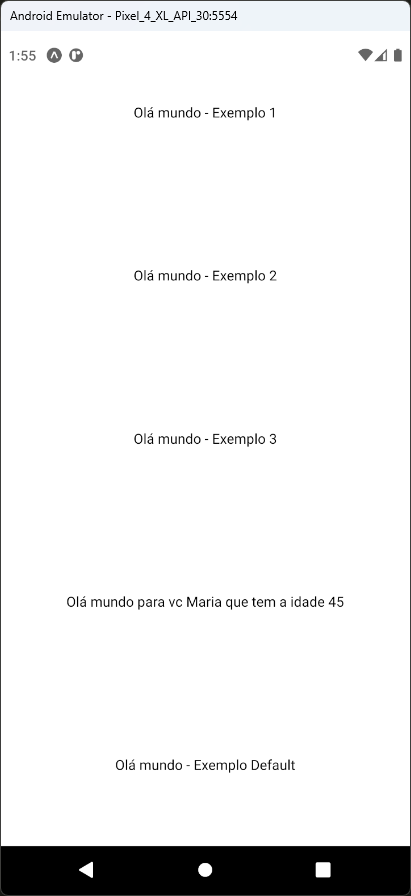
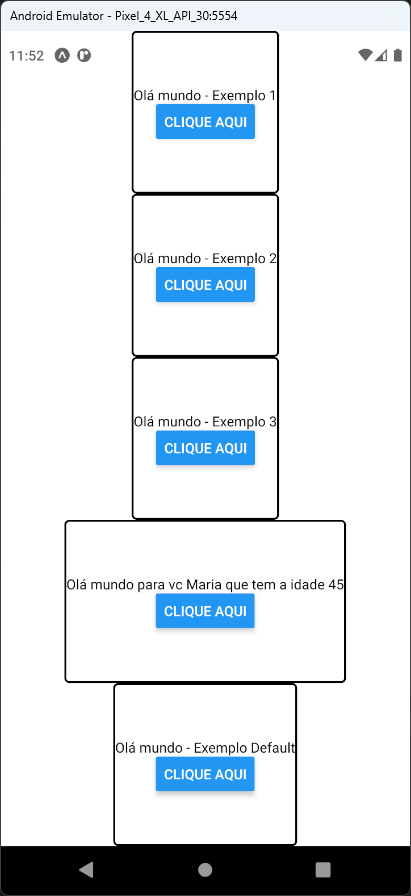
fix: ajuste no projeto

diff --git a/aula_05_functions_arrow_functions/Componentes.js b/aula_05_functions_arrow_functions/Componentes.js
@@ -1,28 +1,32 @@
 import React from 'react';
-import { View, Text, } from 'react-native';
+import {View, Text, Button, StyleSheet} from 'react-native';
 
-function Exemplo1() {
+function Exemplo1(texto) {
+    texto = "Parametro da Função Exemplo1"
     return (
-        <View style={{flex: 1,justifyContent: "center",alignItems: "center"}}>
+        <View style={Estilos.container}>
             <Text>Olá mundo - Exemplo 1</Text>
+            <Button title={"Clique aqui"} onPress={() => alert(`Clicou: ${texto}`)}/>
         </View>
     )
 }
 
 const Exemplo2 = () => {
     return (
-        <View style={{flex: 1,justifyContent: "center",alignItems: "center"}}>
+        <View style={Estilos.container}>
             <Text>Olá mundo - Exemplo 2</Text>
+            <Button title={"Clique aqui"} onPress={() => alert("Clicou")}/>
         </View>
     )
 }
 
-const Exemplo3 = () => <View style={{flex: 1,justifyContent: "center",alignItems: "center"}}><Text>Olá mundo - Exemplo 3</Text></View>
+const Exemplo3 = () => <View style={Estilos.container}><Text>Olá mundo - Exemplo 3</Text><Button title={"Clique aqui"} onPress={() => alert("Clicou")}/></View>
 
 const Exemplo4 = ({nome = "João", idade = 35}) => {
     return (
-        <View style={{flex: 1,justifyContent: "center",alignItems: "center"}}>
+        <View style={Estilos.container}>
             <Text>Olá mundo para vc {nome} que tem a idade {idade}</Text>
+            <Button title={"Clique aqui"} onPress={() => alert("Clicou")}/>
         </View>
     )
 }
@@ -31,8 +35,20 @@ export { Exemplo1, Exemplo2, Exemplo3, Exemplo4 }
 
 export default () => {
     return (
-        <View style={{flex: 1,justifyContent: "center",alignItems: "center"}}>
+        <View style={Estilos.container}>
             <Text>Olá mundo - Exemplo Default</Text>
+            <Button title={"Clique aqui"} onPress={() => alert("Clicou")}/>
         </View>
     )
 }
+
+const Estilos = StyleSheet.create({
+    container: {
+        flex: 1,
+        justifyContent: "center",
+        alignItems: "center",
+        borderRadius: 5,
+        borderWidth: 2,
+        borderColor: "black",
+    },
+});

diff --git a/aula_05_functions_arrow_functions/README.MD b/aula_05_functions_arrow_functions/README.MD
@@ -1,1 +1,19 @@
-# aula
+# Aula 05 - JavaScript - Functions e Arrow Functions
+
+- É uma sintaxe em JavaScript para escrever funções de forma mais simplificada
+- Podemos escrever funções com ou sem nome, diretamente nas chamadas e em uma única linha
+
+## Tela do Aplicativo
+
+![Tela](screen1.png)
+
+## Expo
+
+- https://snack.expo.dev/@thomasdacostaprof/aula_05_functions_arrow_functions
+
+## Exercicios da Aula
+
+- Criar uma função nova com dois campos de email e senha e um botão
+- Ao clicar no botão deve ser exibido um alerta com o conteúdo dos campos de email e senha
+- Utilizar o código do projeto da aula atual
+- Importar a função criada no arquivo App.js

diff --git a/README.md b/README.md
@@ -24,6 +24,7 @@
 
 ## Expo
 
+- https://snack.expo.dev/@thomasdacostaprof/aula_05_functions_arrow_functions
 - https://snack.expo.dev/@thomasdacostaprof/aula_07_1_hook_usestate
 - https://snack.expo.dev/@thomasdacostaprof/aula_07_2_calculadora
 - https://snack.expo.dev/@thomasdacostaprof/aula_08_hook_useeffect
